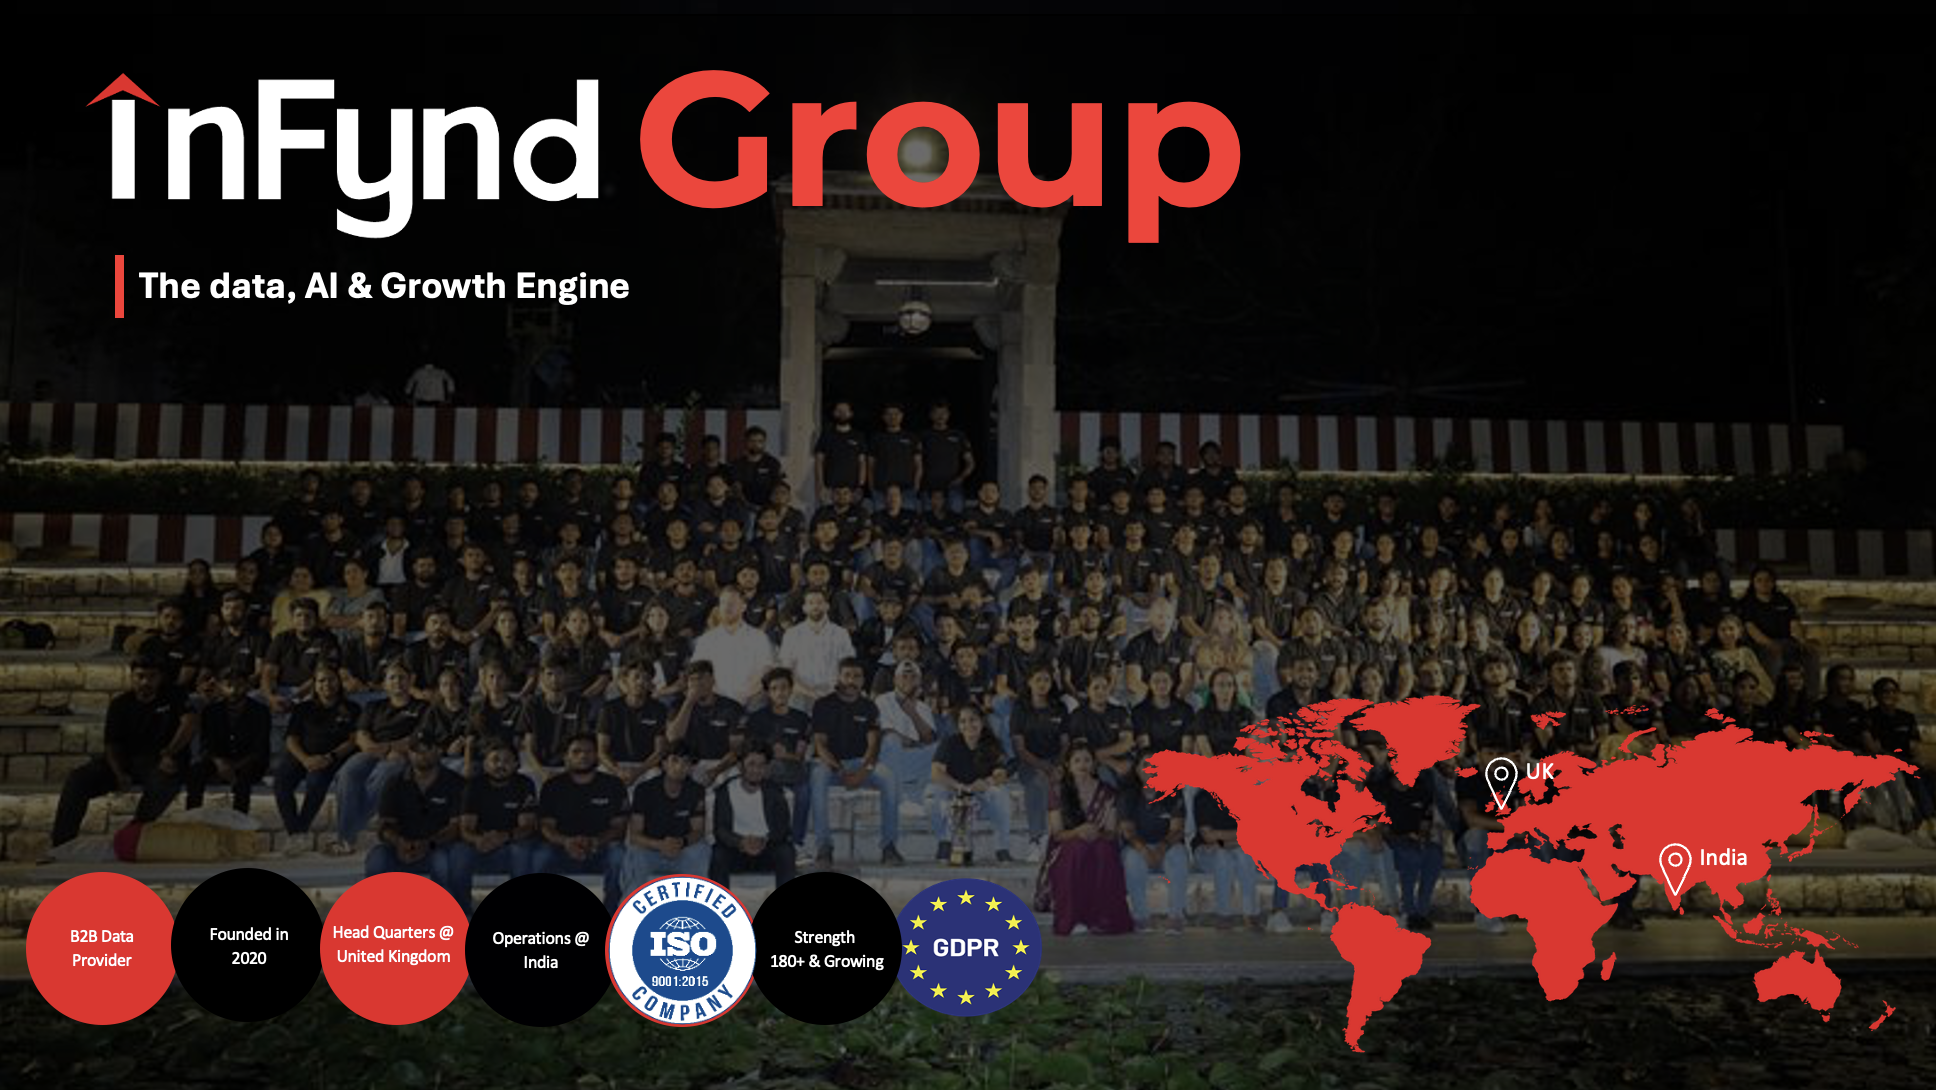
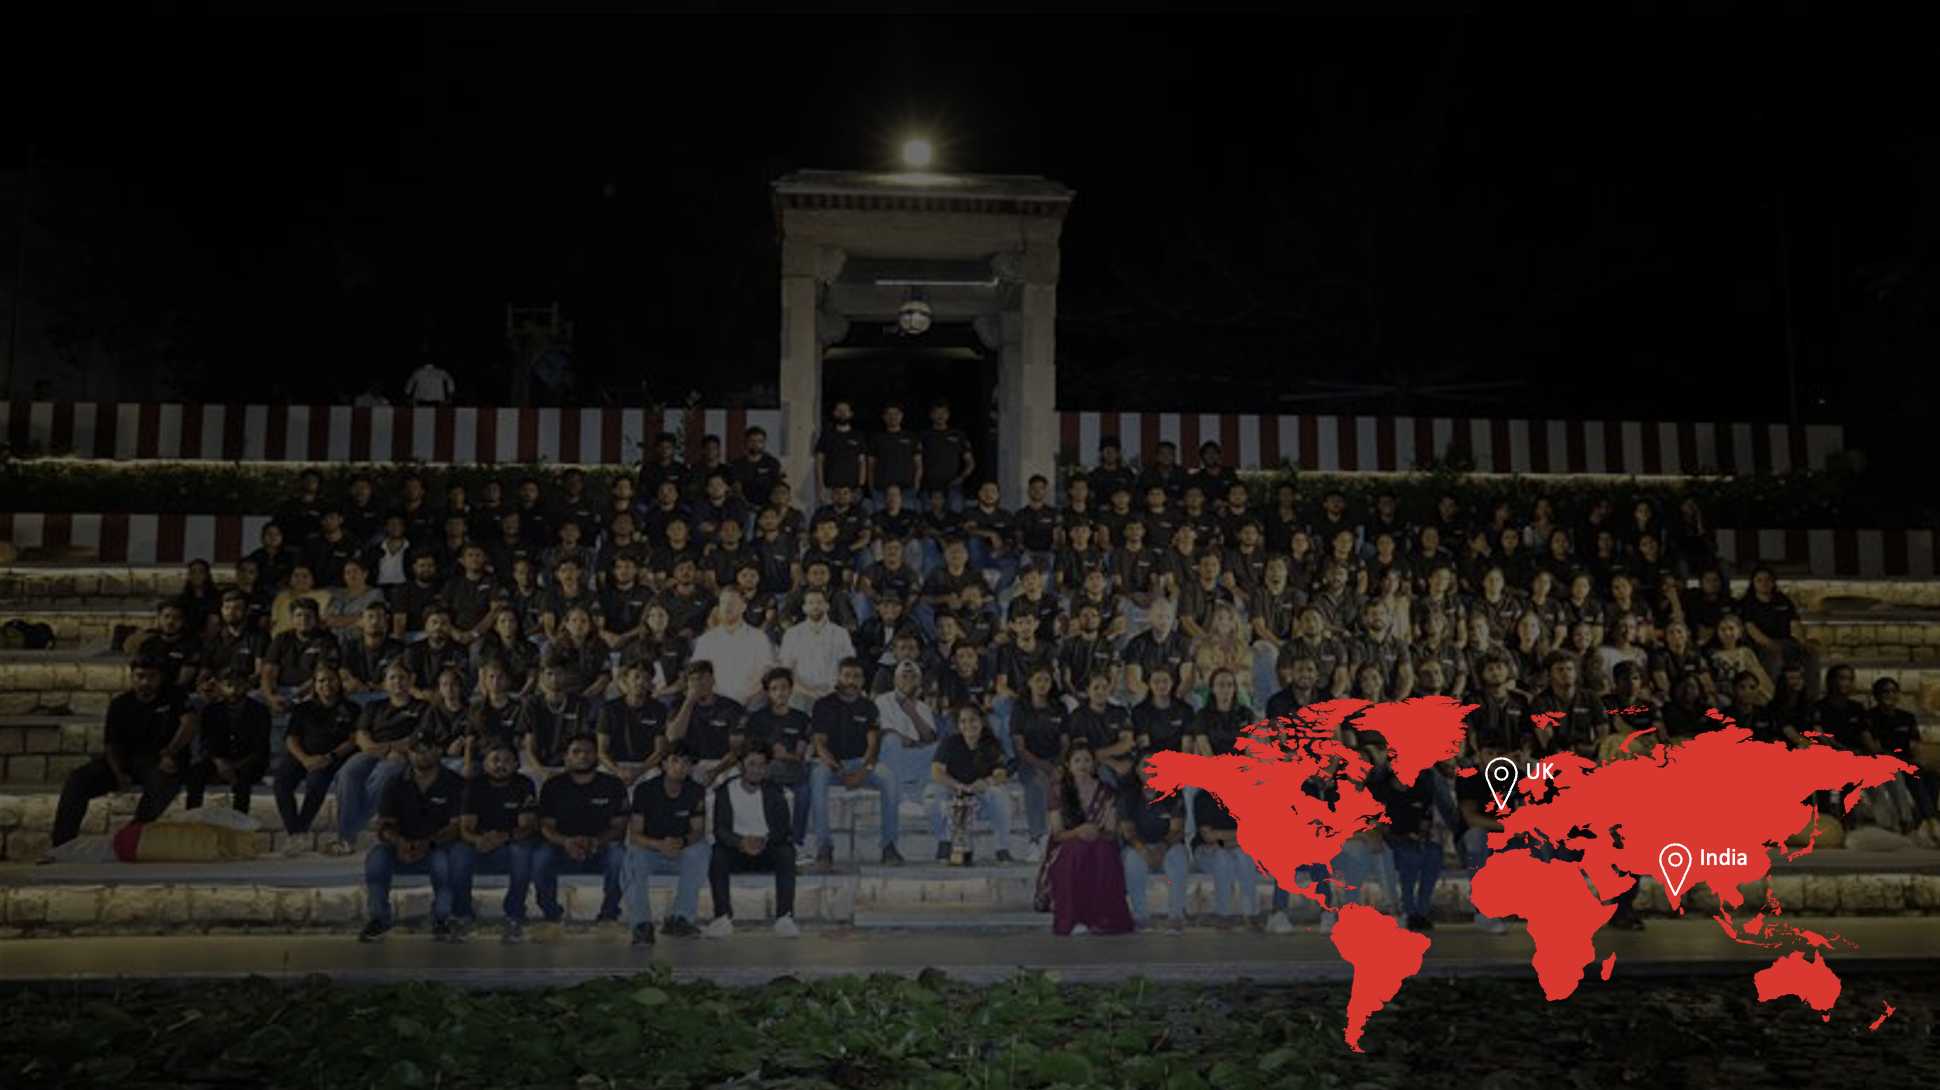
Changes

diff --git a/src/components/about/slides/HeroSlide.tsx b/src/components/about/slides/HeroSlide.tsx
@@ -14,13 +14,11 @@ const badges = [
 
 const HeroSlide = () => (
   <section className="relative min-h-screen flex items-center justify-center overflow-hidden">
-    {/* Background Image */}
+    {/* Background Image - No overlay */}
     <div
       className="absolute inset-0 bg-cover bg-center bg-no-repeat"
       style={{ backgroundImage: `url(${infyndHero})` }}
-    >
-      <div className="absolute inset-0 bg-gradient-to-b from-background/40 via-background/20 to-background/80" />
-    </div>
+    />
 
     {/* Content */}
     <div className="relative z-10 max-w-6xl mx-auto px-6 py-20 text-center">
